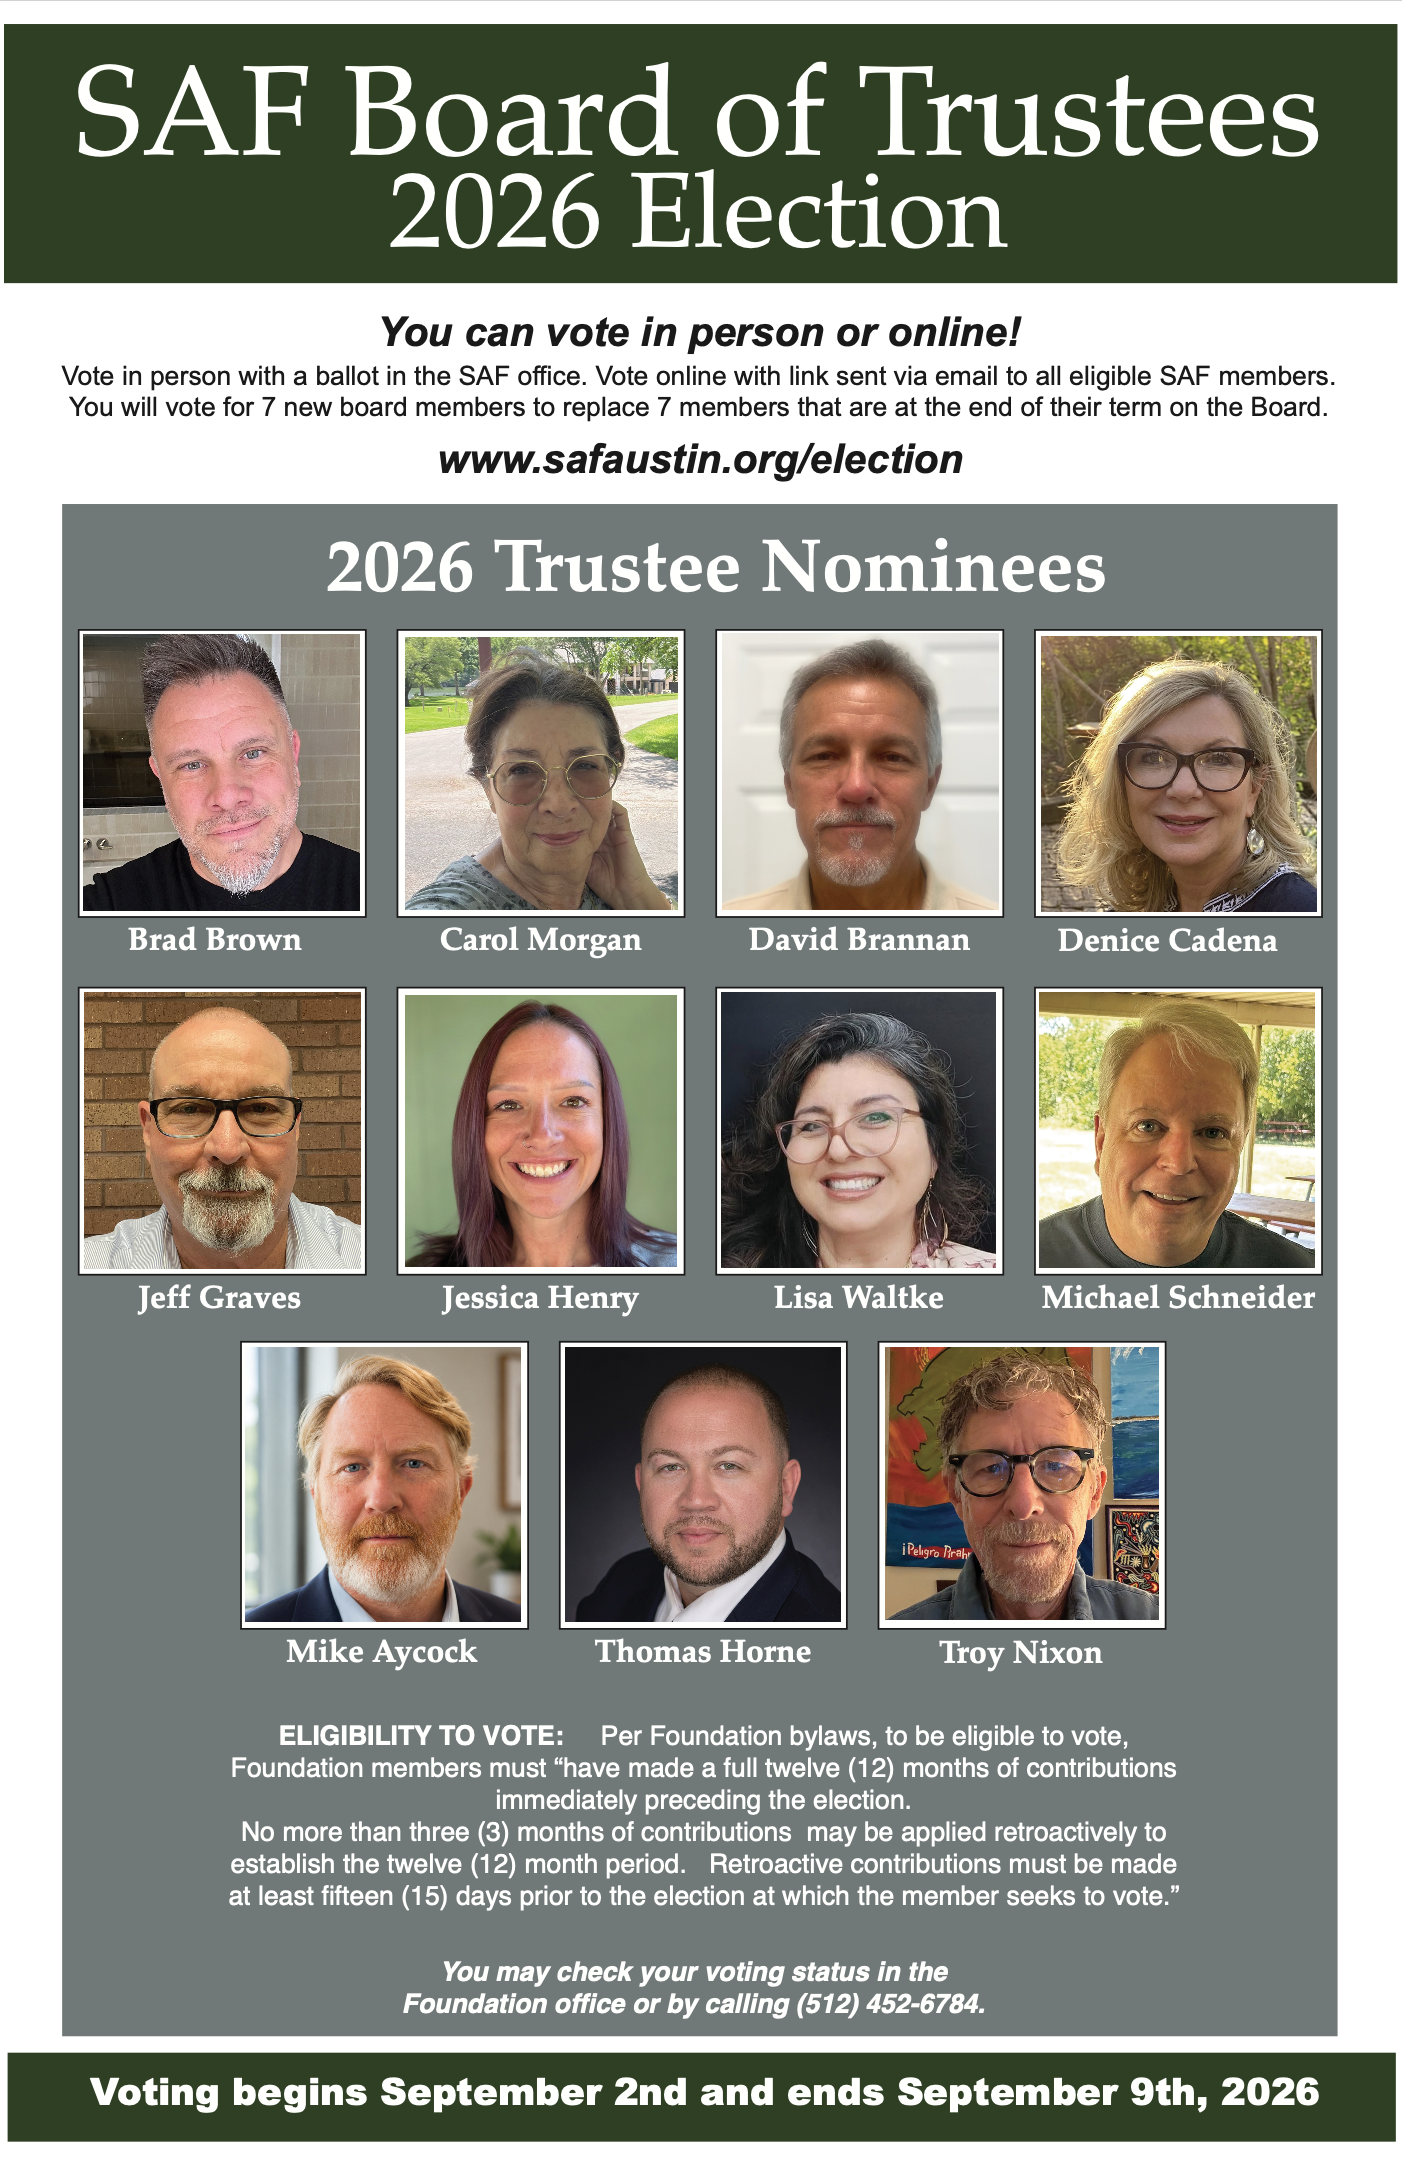
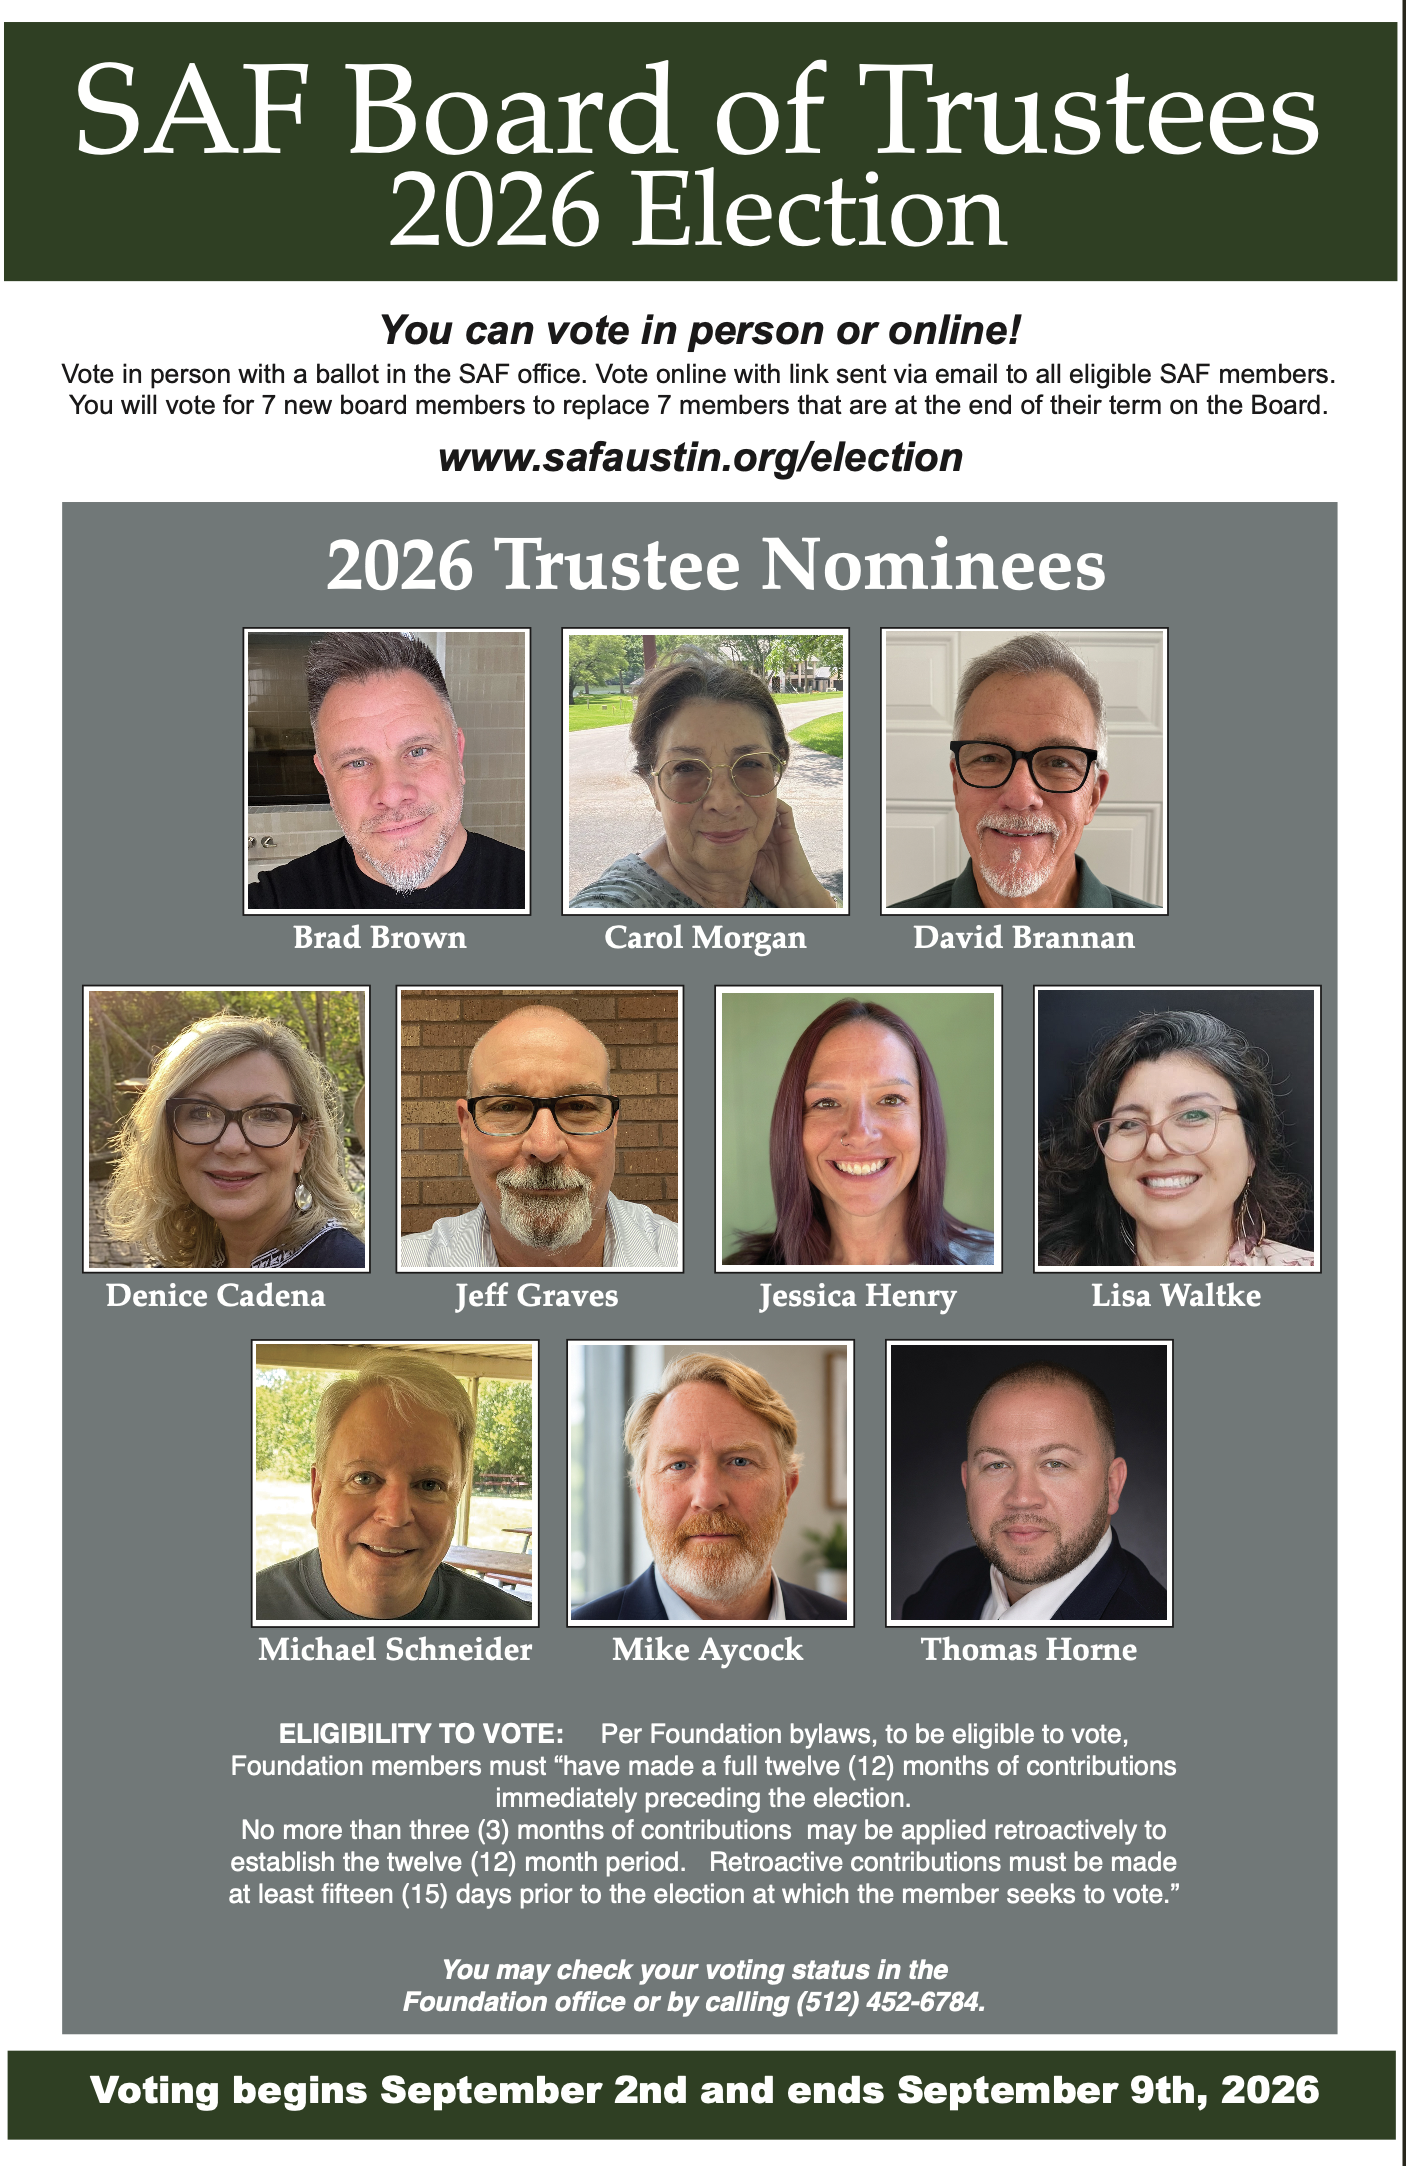
Remove Troy N from the election

diff --git a/pages/election2026.php b/pages/election2026.php
@@ -1,6 +1,6 @@
 <?php
 // $arrCandidates = ["Brad Brown", "Casey Switch", "David Ivey", "Derek Whitman", "Heather Powell", "Mike Aycock", "Stacy Morales", "Susan Onufer", "Tim Currens", "Tom Fleshman"];
-$arrCandidates = ["Brad Brown", "Carol Morgan", "David Brannan", "Denice Cadena", "Jeff Graves", "Jessica Henry", "Lisa Waltke", "Michael Schneider", "Mike Aycock", "Thomas Horne", "Troy Nixon"];
+$arrCandidates = ["Brad Brown", "Carol Morgan", "David Brannan", "Denice Cadena", "Jeff Graves", "Jessica Henry", "Lisa Waltke", "Michael Schneider", "Mike Aycock", "Thomas Horne"];
 $now = date_create()->format('Y-m-d H:i:s');
 $isOpen = ($now > '2026-09-02 08:00:01' && $now < '2026-09-09 20:00:00') ? true  : false;
 
